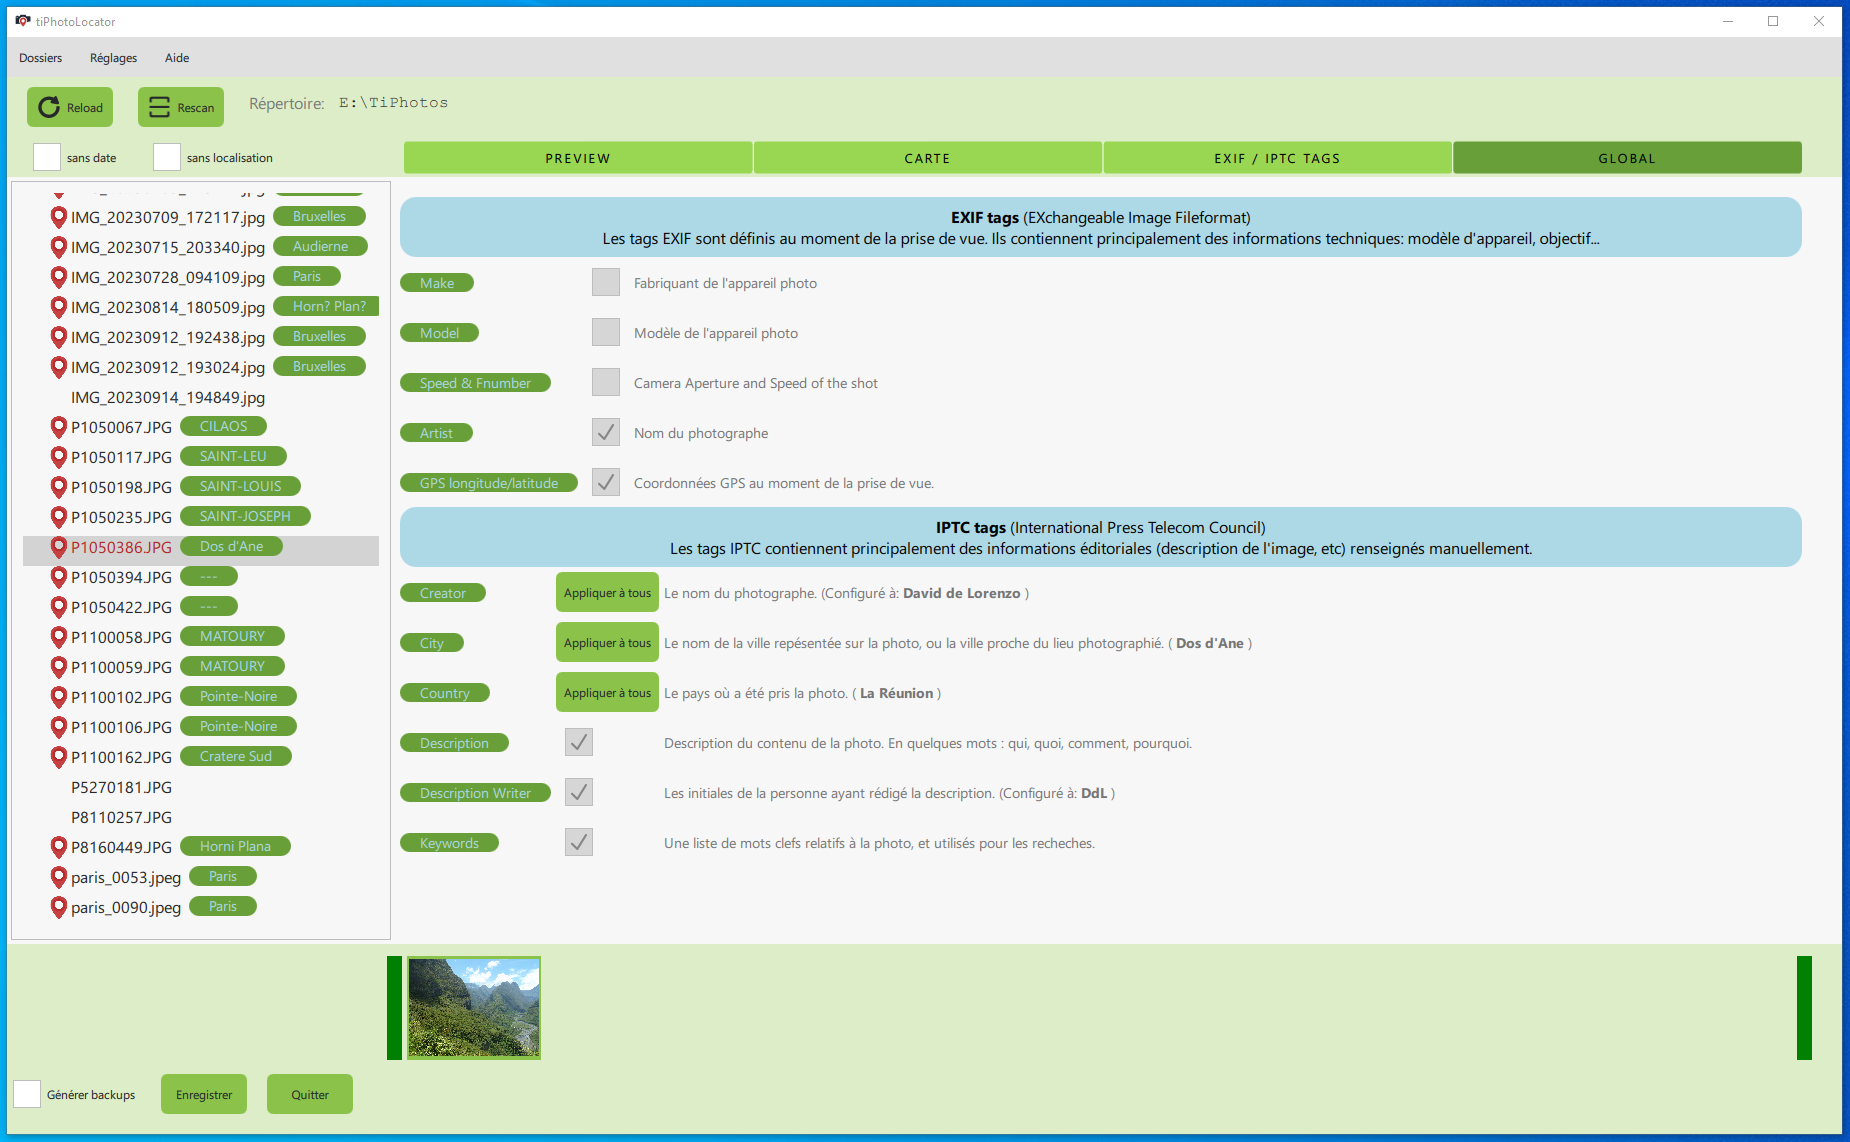
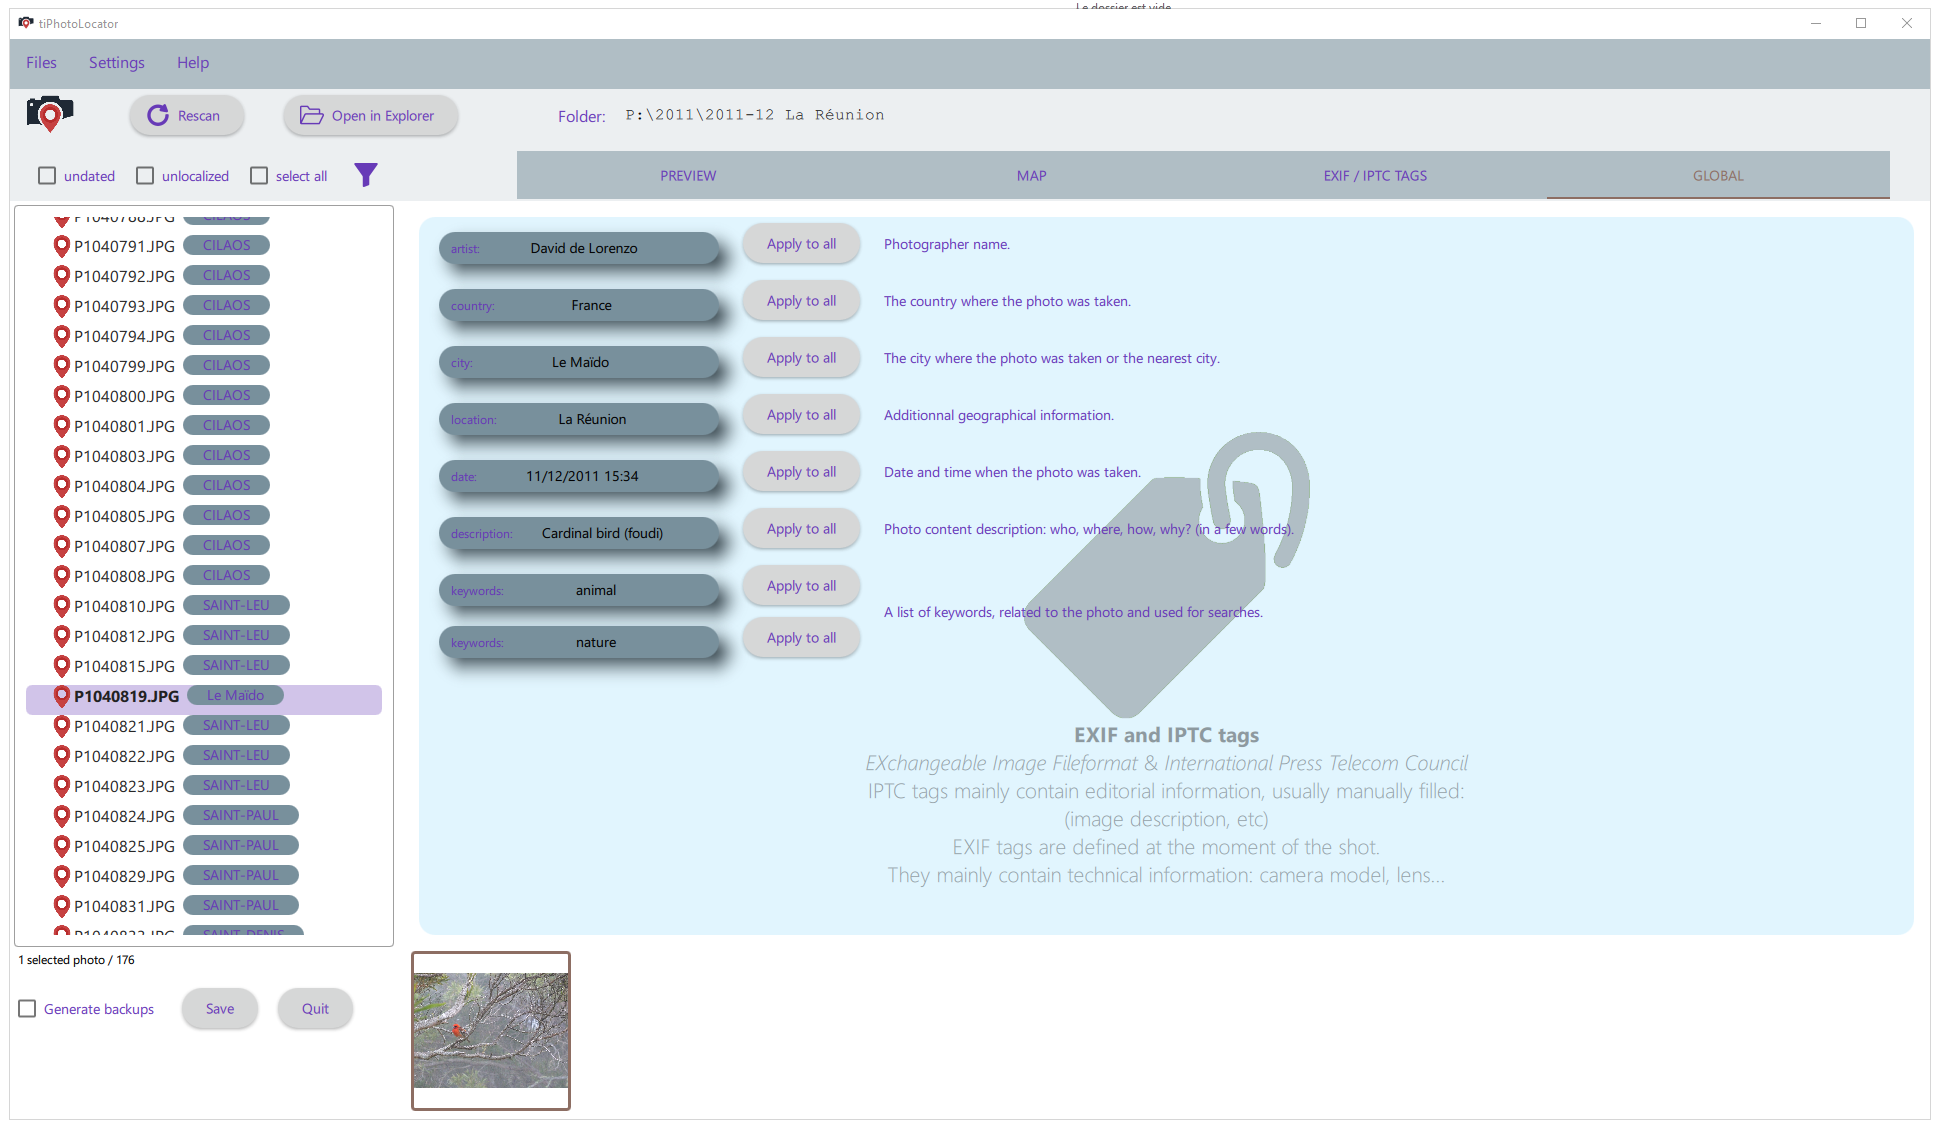
Screenshots

diff --git a/Languages/fre.ts b/Languages/fre.ts
@@ -133,7 +133,7 @@
     <message>
         <location filename="../Sources/Qml/Main.qml" line="182"/>
         <source>EXIF / IPTC TAGS</source>
-        <translation>TAGS EXIF &amp; IPTC</translation>
+        <translation>TAGS EXIF ET IPTC</translation>
     </message>
     <message>
         <location filename="../Sources/Qml/Main.qml" line="187"/>
@@ -536,6 +536,11 @@
 </context>
 <context>
     <name>ZoneGlobalTagsForm.ui</name>
+    <message>
+        <location filename="../Sources/Qml/Vues/ZoneGlobalTagsForm.ui.qml" line="37"/>
+        <source>&lt;b&gt;EXIF and IPTC tags&lt;/b&gt;</source>
+        <translation>&lt;b&gt;Tags EXIF et IPTC&lt;/b&gt;</translation>
+    </message>
     <message>
         <location filename="../Sources/Qml/Vues/ZoneGlobalTagsForm.ui.qml" line="39"/>
         <source>IPTC tags mainly contain editorial information, usually manually filled:</source>

diff --git a/Languages/eng.ts b/Languages/eng.ts
@@ -537,6 +537,11 @@
 <context>
     <name>ZoneGlobalTagsForm.ui</name>
     <message>
+        <location filename="../Sources/Qml/Vues/ZoneGlobalTagsForm.ui.qml" line="37"/>
+        <source>&lt;b&gt;EXIF and IPTC tags&lt;/b&gt;</source>
+        <translation>&lt;b&gt;EXIF and IPTC tags&lt;/b&gt;</translation>
+    </message>
+    <message>
         <location filename="../Sources/Qml/Vues/ZoneGlobalTagsForm.ui.qml" line="39"/>
         <source>IPTC tags mainly contain editorial information, usually manually filled:</source>
         <translation>IPTC tags mainly contain editorial information, usually manually filled:</translation>

diff --git a/Sources/Qml/Vues/ZoneGlobalTagsForm.ui.qml b/Sources/Qml/Vues/ZoneGlobalTagsForm.ui.qml
@@ -34,7 +34,7 @@ Zone {
     color: Style.suggestionBackgroundColor
 
     readonly property string br: "<br>"
-    readonly property string title: "<b>EXIF and IPTC tags</b> "
+    readonly property string title: qsTr("<b>EXIF and IPTC tags</b>")
     readonly property string brief: "<i>EXchangeable Image Fileformat</i> & <i>International Press Telecom Council</i>"
     readonly property string usage1: qsTr("IPTC tags mainly contain editorial information, usually manually filled:")
     readonly property string note1: qsTr("(image description, etc)")

diff --git a/docs/index.md b/docs/index.md
@@ -12,7 +12,7 @@
 
 ![Screenshot](images/TPL-carte.png)
 
-Supported languages: French.
+Supported languages: English + French (for the moment).
 
 ## Features
 
@@ -20,9 +20,16 @@ With TiPhotoLocator, you can:
 
 * set the GPS coords of your photo on a map
 * see the EXIF tags of the photo
-* Set the Geo tags of the photo (city, country)
+* Set the Geo tags of the photo (city, country, location)
 * Set the coordinates a  photo to other photos
-* and many other
+* Assign new tags (keywords) to your photos, one by one or by group.
+* Edit any tag and apply it the a photo or a group of photos.
+* Many tag suggestions are proposed: based on your history and on folder name.
+* you can place your photo manually on the map, or ask the application to find the place by its name.
+* At any moment, you can click on the thumbnail to see a larger photo.
+
+> Supported folder name is `YYYY-MM - Place (comments)`.
+> (Separators can be dot, space or dash)
 
 ## Installation
 
